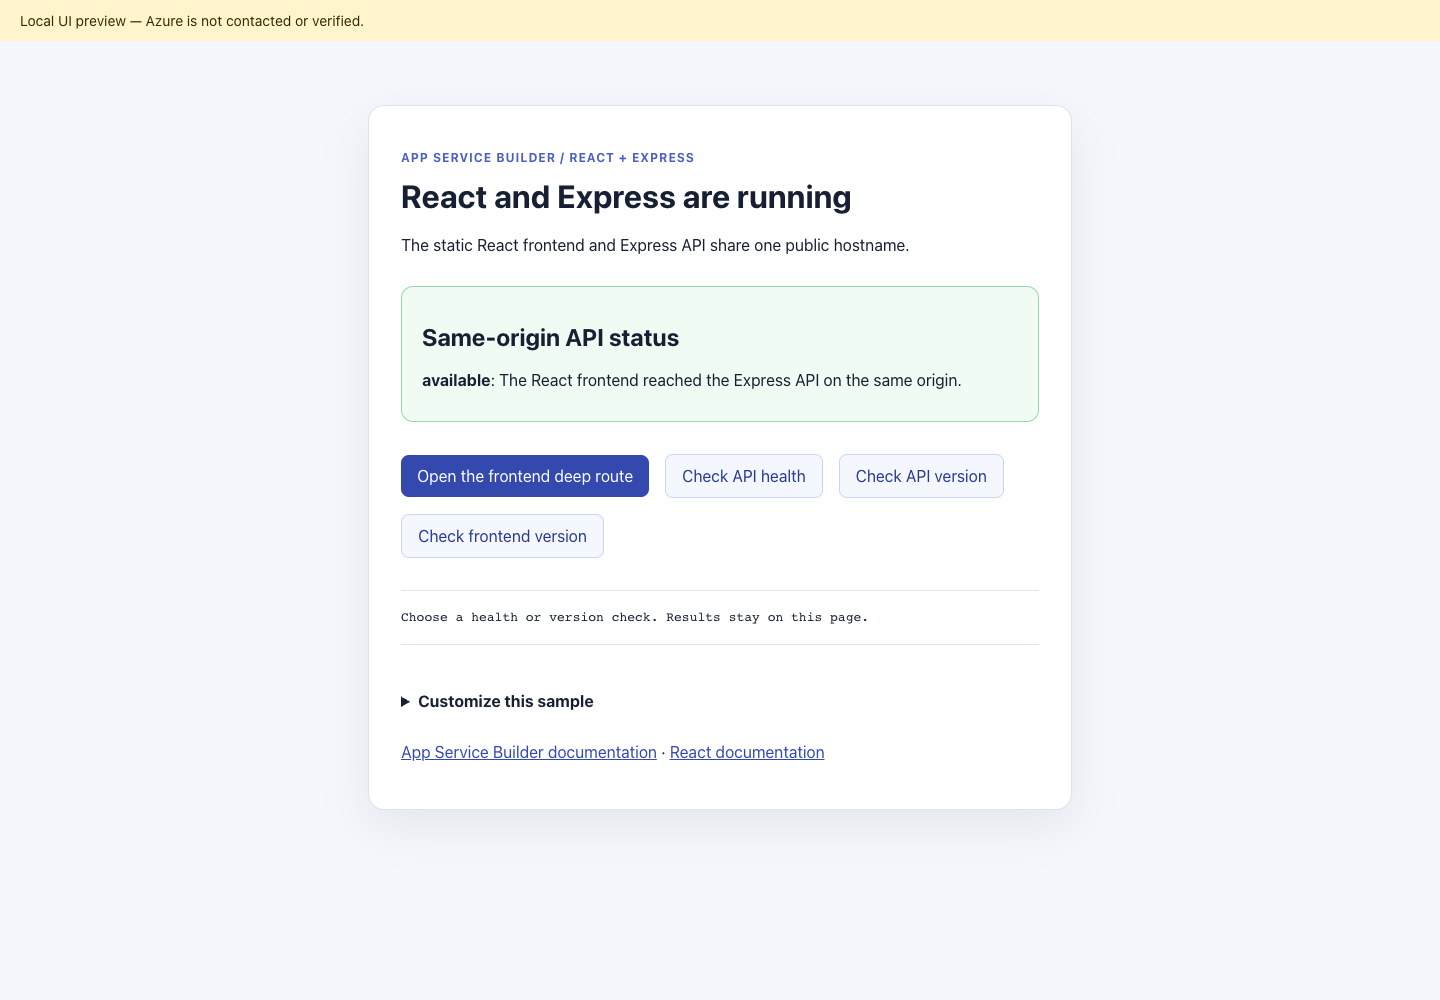
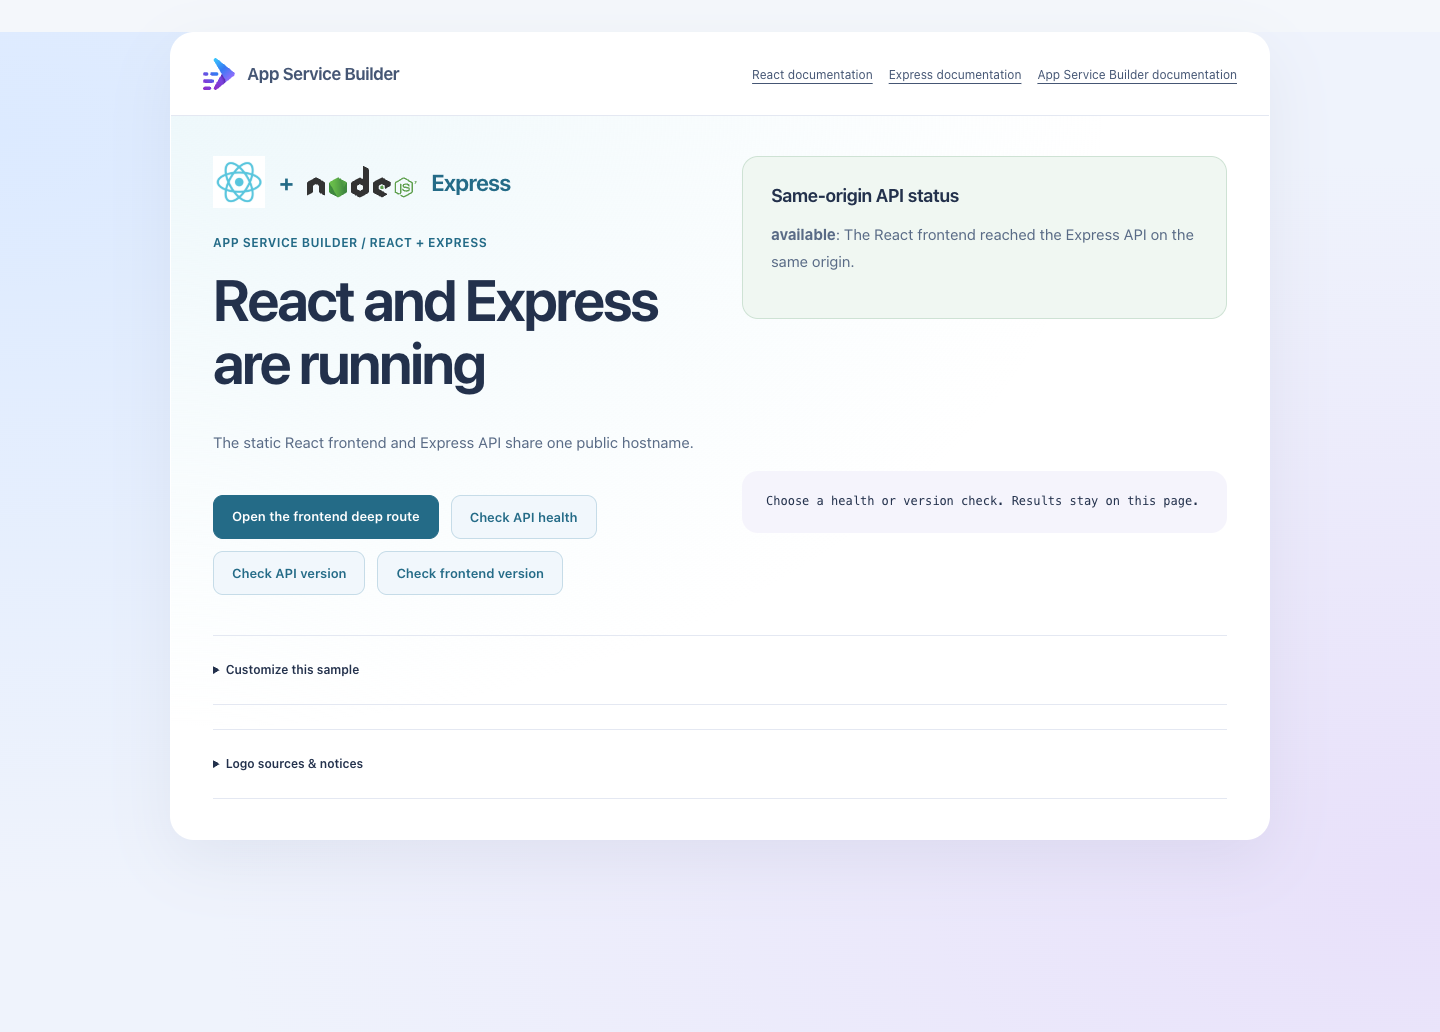
Apply approved language-family sample styling
Preserve sample interactions, inline health checks and honest customization guidance; refresh the locally rendered README screenshot.

diff --git a/web/public/brand/family.v1.css b/web/public/brand/family.v1.css
@@ -1,0 +1,34 @@
+html body{margin:0;min-height:100vh;background:radial-gradient(ellipse at 0 10%,#dceaff,transparent 60%),radial-gradient(ellipse at 100% 85%,#e8e0fa,transparent 60%),#eff3fc;color:#23314c;font-family:"Segoe UI",system-ui,sans-serif;font-size:15px;--accent:#246b87;--line:#e4e8f2}
+main.sample-sheet{width:min(1100px,calc(100% - 64px));margin:32px auto;padding:0;background:#fff;border:1px solid #ffffffbd;border-radius:24px;box-shadow:0 22px 65px #3b487515;overflow:hidden}
+.sample-header{display:flex;align-items:center;justify-content:space-between;gap:24px;padding:25px 32px;border-bottom:1px solid var(--line)}
+.sample-brand{display:flex;align-items:center;gap:12px;font-size:17px;font-weight:650;letter-spacing:-.02em;color:#23314c;text-decoration:none}
+.sample-brand img{width:32px;height:32px;object-fit:contain}
+.sample-header nav{display:flex;flex-wrap:wrap;gap:16px;margin:0;font-size:12px}
+.sample-header a{color:#455674;text-underline-offset:4px}
+.sample-content{padding:40px 42px}
+.ecosystem-logo{display:flex;align-items:center;gap:14px;margin-bottom:24px;color:var(--accent);font-size:23px;font-weight:650;letter-spacing:-.03em}
+.ecosystem-logo img{width:52px;height:52px;object-fit:contain}
+.ecosystem-logo img.wordmark{width:110px}
+.sample-content h1{font-size:clamp(32px,4.4vw,58px);line-height:1.09;letter-spacing:-.04em;font-weight:650;margin:0 0 20px;text-wrap:balance}
+.sample-content h2{font-size:18px;font-weight:650;letter-spacing:-.02em;margin:0 0 14px}
+.sample-content p{line-height:1.8;color:#596b86}
+.sample-content .eyebrow{color:var(--accent);font-size:12px;font-weight:650;letter-spacing:.04em;margin:0 0 14px}
+.sample-content nav{display:flex;flex-wrap:wrap;align-items:center;gap:12px;margin:24px 0 16px}
+.sample-content a{color:var(--accent);text-underline-offset:4px}
+.sample-content button,.sample-content .button{min-height:44px;padding:12px 18px;border:1px solid #c6dce8;border-radius:10px;background:#f1f7fc;color:var(--accent);font:inherit;font-size:13px;font-weight:600;text-decoration:none;cursor:pointer}
+.sample-content .button{background:var(--accent);color:#fff;border-color:var(--accent)}
+.sample-content button:hover,.sample-content .button:hover{filter:brightness(.92)}
+.sample-content button:disabled{opacity:.6;cursor:wait}
+.sample-content details{margin-top:24px;padding:12px 0;border-block:1px solid var(--line);font-size:12px}
+.sample-content summary{cursor:pointer;font-weight:600;min-height:44px;align-content:center}
+.sample-content code{font-size:12px;overflow-wrap:anywhere}
+.sample-content .documentation{font-size:12px;justify-content:space-between}
+a:focus-visible,button:focus-visible,summary:focus-visible{outline:3px solid #7660d0;outline-offset:4px}
+.sample-content{display:grid;grid-template-columns:minmax(0,1fr) minmax(0,1fr);column-gap:44px;background:radial-gradient(ellipse at 0 0,#eef8fb,transparent 60%),#fff}
+.sample-content>*{grid-column:1}
+.sample-content>.api-card{grid-column:2;grid-row:1/5;align-self:start;margin:0;padding:28px;background:#f1f6fc;border:1px solid #dbe5f2;border-radius:16px}
+.sample-content>.api-card[data-state=available]{background:#f0f7f2;border-color:#cee2d4}
+.sample-content>.api-card[data-state=error]{background:#fff1f1;border-color:#e8c6c6}
+.sample-content>.inspection{grid-column:2;grid-row:5/7;margin:0;padding:20px 24px;background:#f5f4fc;border:0;border-radius:16px;font:12px/1.8 Consolas,monospace;white-space:pre-wrap;overflow-wrap:anywhere;align-self:start}
+.sample-content>details,.sample-content>.documentation{grid-column:1/-1}
+@media(max-width:650px){main.sample-sheet{width:calc(100% - 30px);margin:18px auto;border-radius:19px}.sample-header{padding:22px;flex-wrap:wrap;gap:18px}.sample-header nav{width:100%;gap:12px;font-size:11px}.sample-content{display:block;padding:32px 22px}.sample-content h1{font-size:36px}.sample-content nav{align-items:stretch}.sample-content .documentation{gap:14px}.sample-content>.api-card{margin:24px 0}.ecosystem-logo{flex-wrap:wrap}}

diff --git a/web/src/App.jsx b/web/src/App.jsx
@@ -4,10 +4,21 @@ import './App.css'
 
 function Layout({ eyebrow, title, children }) {
   return (
-    <main>
+    <main className="sample-sheet">
+      <header className="sample-header">
+        <Link className="sample-brand" to="/"><img src="/brand/builder.svg" alt="" width="32" height="32" />App Service Builder</Link>
+        <nav aria-label="Documentation">
+          <a href="https://react.dev/learn">React documentation</a>
+          <a href="https://expressjs.com/">Express documentation</a>
+          <a href="https://builder.appservice.azure.com/docs/">App Service Builder documentation</a>
+        </nav>
+      </header>
+      <div className="sample-content">
+      <div className="ecosystem-logo"><img src="/brand/react.png" alt="React" width="52" height="52" /><span>+</span><img className="wordmark" src="/brand/nodejs.svg" alt="Node.js" width="110" height="52" /><span>Express</span></div>
       <p className="eyebrow">{eyebrow}</p>
       <h1>{title}</h1>
       {children}
+      </div>
     </main>
   )
 }
@@ -87,9 +98,19 @@ function Home() {
       <pre className="inspection" role="status">{inspection}</pre>
       <details>
         <summary>Customize this sample</summary>
-        <p>Edit <code>web/src/App.jsx</code> in your own fork to change this page. Edit <code>api/src/app.js</code> to change the API response. Rebuild, test, commit and redeploy your fork; this page does not edit GitHub.</p>
+        <p>Edit <code>web/src/App.jsx</code> in your own fork to change this page and
+          <code> web/public/brand/family.v1.css</code> for its styles. Edit <code>api/src/app.js</code>
+          to change the API response. Rebuild, test, commit and redeploy your fork; this page does not edit GitHub.</p>
       </details>
-      <p><a href="https://builder.appservice.azure.com/docs/">App Service Builder documentation</a> · <a href="https://react.dev/learn">React documentation</a></p>
+      <details>
+        <summary>Logo sources &amp; notices</summary>
+        <p>Unmodified <a href="https://react.dev/">React artwork</a> and
+          <a href="https://nodejs.org/en/about/branding">Node.js artwork</a> identify the
+          frontend and Express runtime. React is a trademark of Meta Platforms, Inc.;
+          Node.js is a trademark of the OpenJS Foundation
+          (<a href="https://trademark-policy.openjsf.org/">policy</a>).
+          App Service Builder uses its supplied official mark. No endorsement implied.</p>
+      </details>
     </Layout>
   )
 }

diff --git a/web/index.html b/web/index.html
@@ -8,6 +8,7 @@
       content="React and Express full-stack sample for Azure App Service Builder."
     />
     <title>App Service Builder: React + Express sample</title>
+    <link rel="stylesheet" href="/brand/family.v1.css" />
   </head>
   <body>
     <div id="root"></div>

diff --git a/README.md b/README.md
@@ -4,11 +4,27 @@
 
  ![React and Express root page with same-origin API status, in-page health and version checks, and customization help](docs/images/sample.png)
 
- Rendered locally from the production React build with the real local Express API;
+ **LOCAL — Microsoft Edge, 1440px desktop, root `/`.**
+ Rendered from the production React build with the real local Express API;
  Azure deployment was not performed or verified. The useful page is at `/`.
  Health and version checks display responses on the page rather than navigate to
  raw endpoints. Expand **Customize this sample** for the files to edit in your own
  fork. App Service Builder and React documentation are named separately.
+
+The paired daylight composition preserves the same-origin API status card,
+health/version checks, and React Router paths. Edit `web/src/App.jsx` for content
+and `web/public/brand/family.v1.css` for the visual family; baseline styles remain
+in `web/src/App.css`. Express documentation is separate from Builder guidance.
+
+### Logo provenance
+
+`web/public/brand/builder.svg` is the supplied official App Service Builder mark.
+`react.png` is the unmodified [official React site icon](https://react.dev/apple-touch-icon.png).
+`nodejs.svg` is the unmodified [official dark horizontal Node.js SVG](https://nodejs.org/static/logos/nodejsDark.svg),
+identifying Express's runtime. React is a trademark of Meta Platforms, Inc.;
+Node.js is a trademark of the OpenJS Foundation, subject to its
+[trademark policy](https://trademark-policy.openjsf.org/).
+Logos identify the stack; no endorsement is implied.
 
 A standalone React frontend and Express API deployed as two components behind
 one public hostname with
